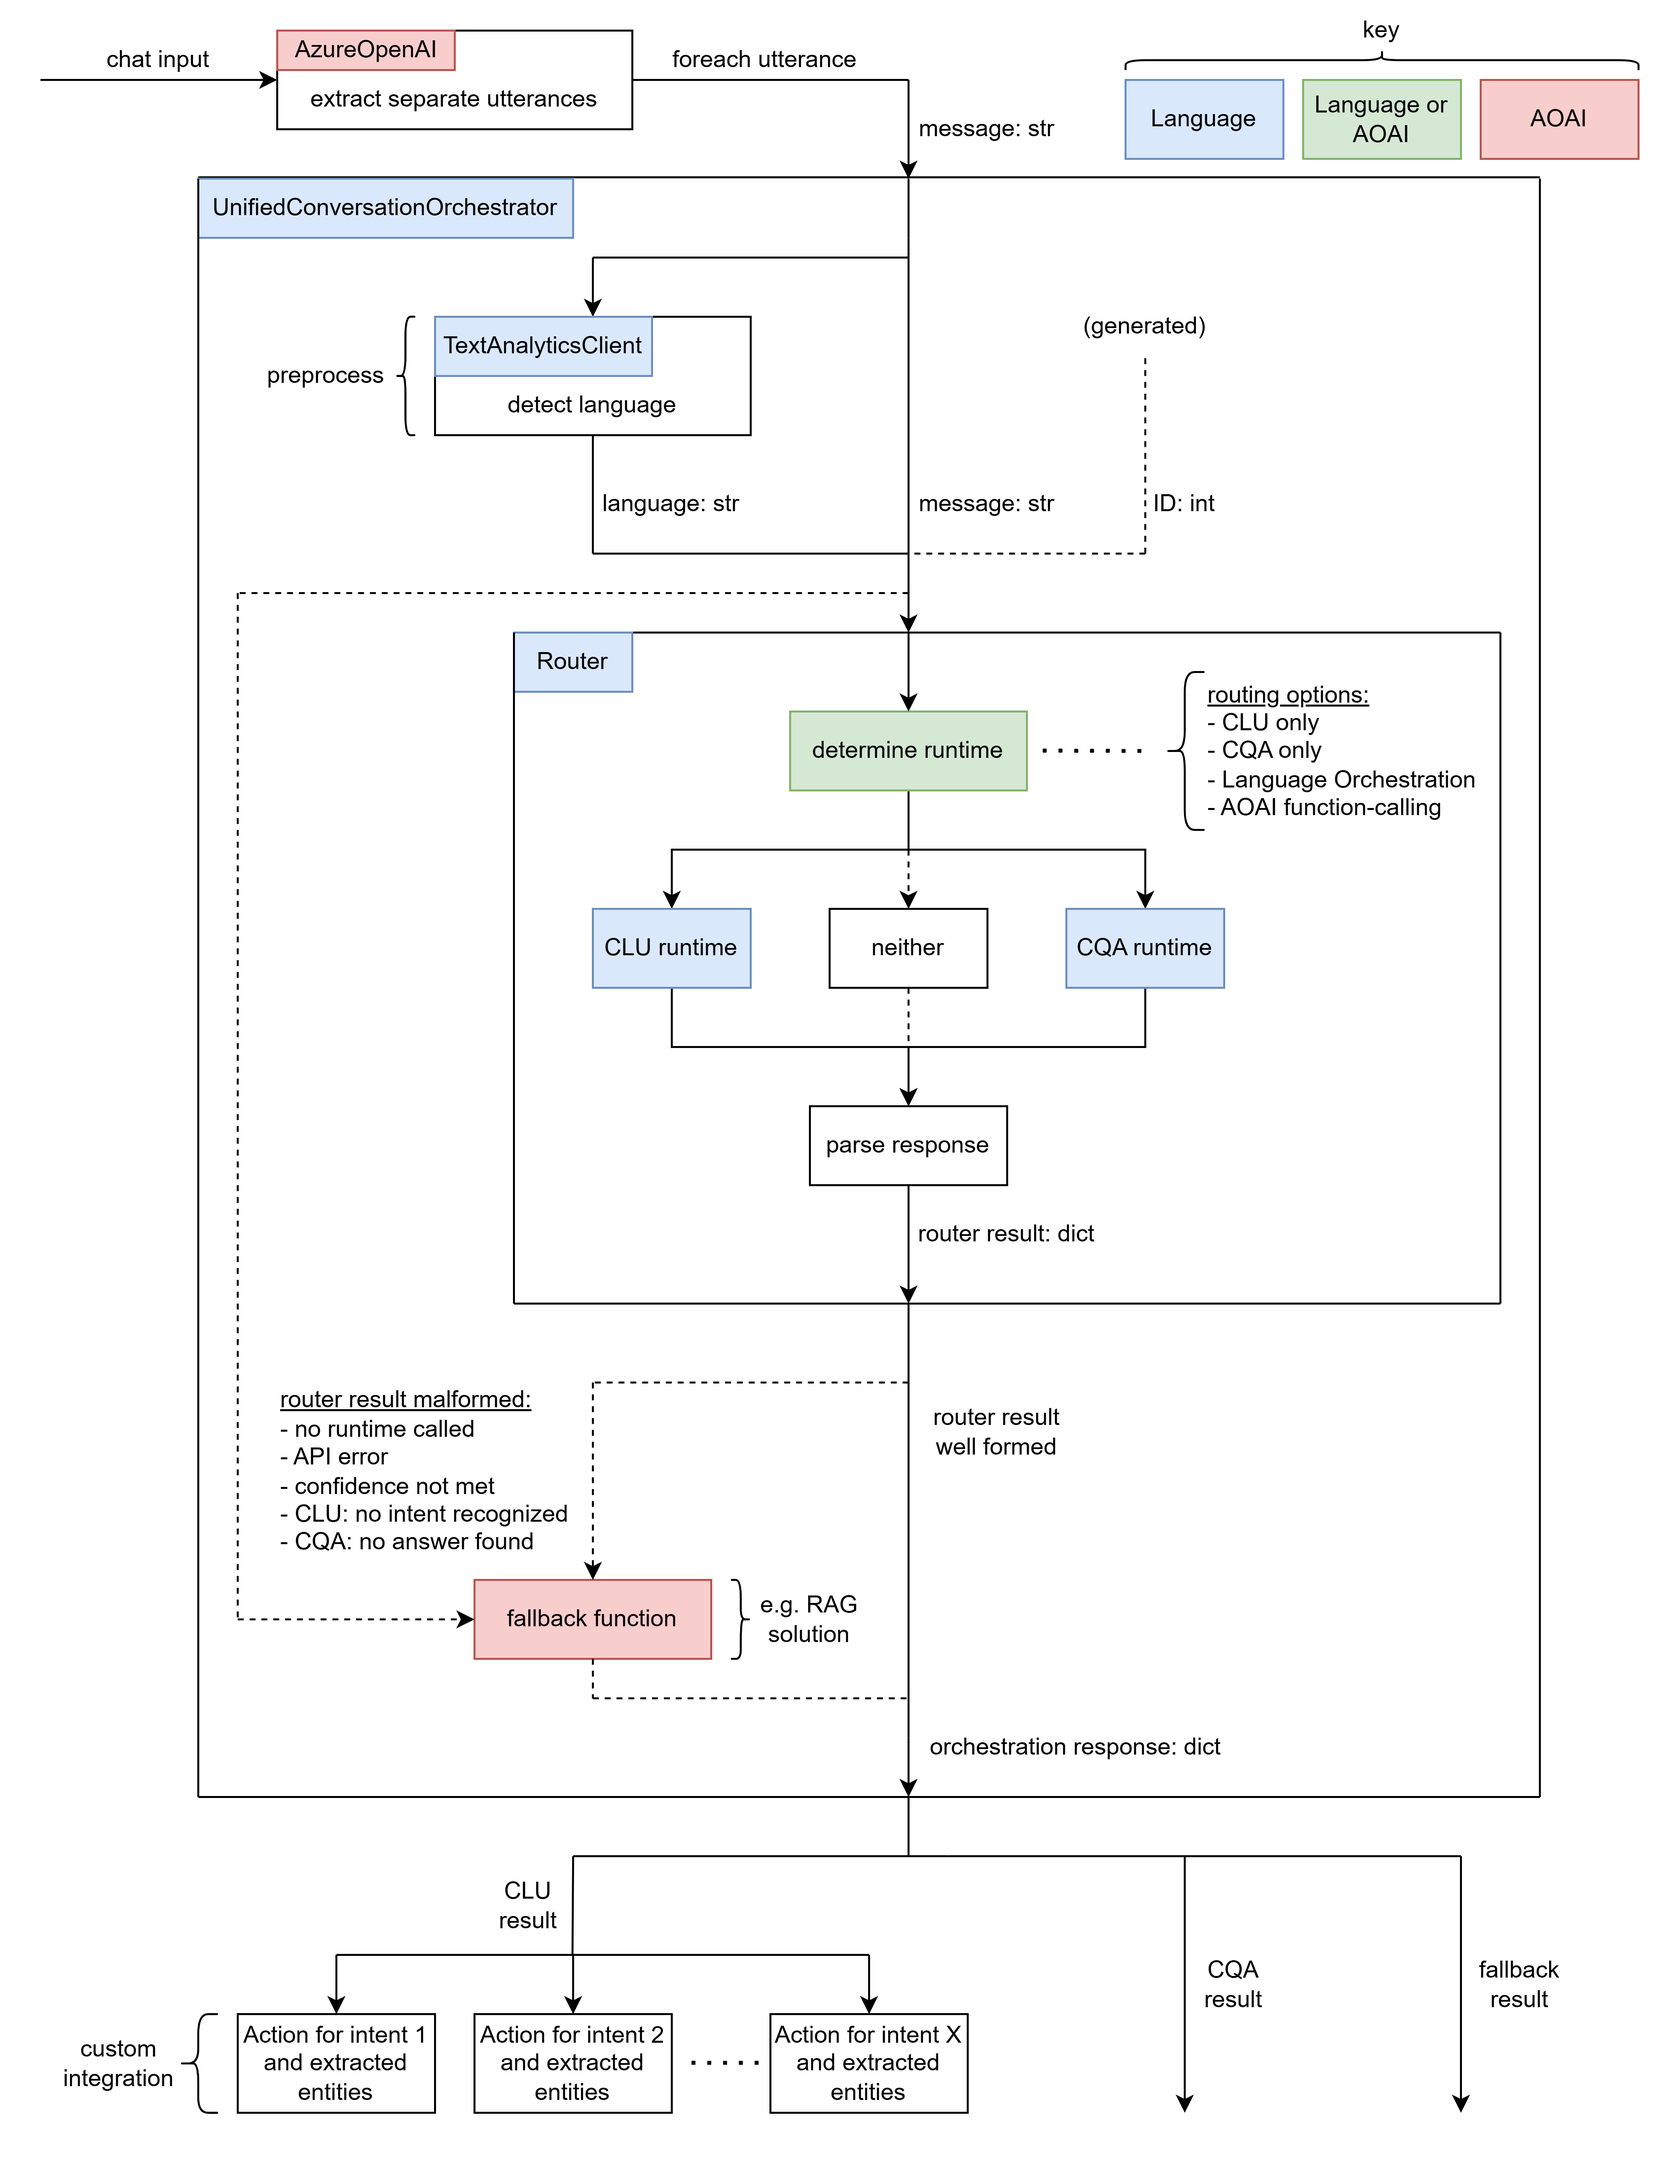
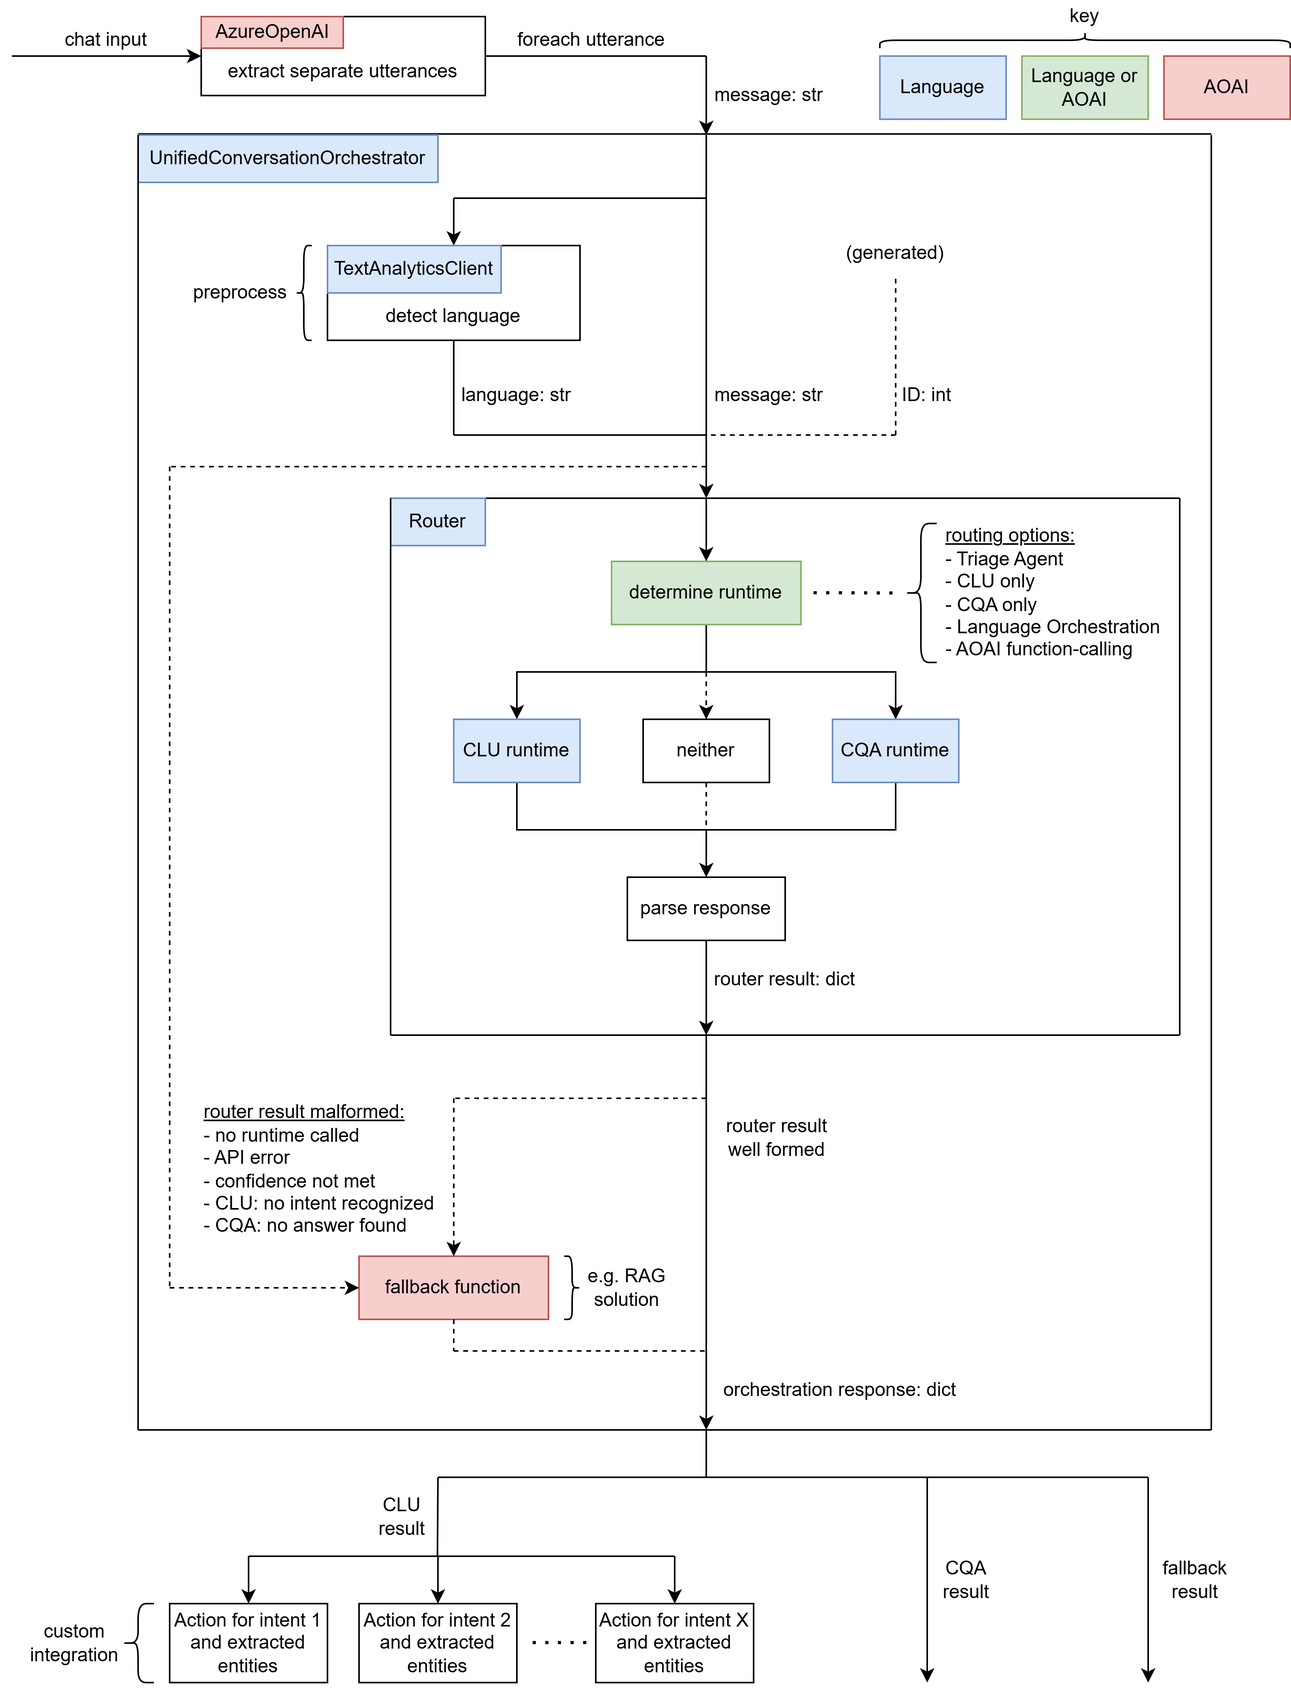
Updating agent fallback routing logic and updating readme (#40)
This PR updates the architecture and overview diagrams in the README and also fixes how fallback logic is handled by the triage agent in the event of an error.

diff --git a/src/backend/src/router/triage_agent_router.py b/src/backend/src/router/triage_agent_router.py
@@ -1,17 +1,18 @@
 # Copyright (c) Microsoft Corporation.
 # Licensed under the MIT License.
 import os
+import sys
 import json
 import logging
-import pii_redacter
 from typing import Callable
 from azure.ai.agents import AgentsClient
-from azure.ai.agents.models import ListSortOrder
+from azure.ai.agents.models import ListSortOrder, AgentThread
 from router.clu_router import parse_response as parse_clu_response
 from router.cqa_router import parse_response as parse_cqa_response
 from utils import get_azure_credential
 
 _logger = logging.getLogger(__name__)
+_logger.setLevel(logging.INFO)
 
 PII_ENABLED = os.environ.get("PII_ENABLED", "false").lower() == "true"
 
@@ -38,60 +39,94 @@ def create_triage_agent_router() -> Callable[[str, str, str], dict]:
         """
         Triage agent router function.
         """
-
-        # Create thread for communication
-        thread = agents_client.threads.create()
-        _logger.info(f"Created thread, ID: {thread.id}")
-
-        # Create and add user message to thread
-        message = agents_client.messages.create(
-            thread_id=thread.id,
-            role="user",
-            content=utterance,
-        )
-        _logger.info(f"Created message: {message['id']}")
-        
         # Process the agent run and handle retries
         max_retries = int(os.environ.get("MAX_AGENT_RETRY", 3))
-        for attempt in range(1, max_retries + 1):
-            run = agents_client.runs.create_and_process(thread_id=thread.id, agent_id=agent.id)
-            _logger.info(f"Run attempt {attempt} finished with status: {run.status}")
-
-            if run.status == "completed":
-                # Fetch and log all messages if successful run
-                messages = agents_client.messages.list(thread_id=thread.id, order=ListSortOrder.ASCENDING)
-                for msg in messages:
-                    if msg.text_messages:
-                        last_text = msg.text_messages[-1]
-                        _logger.info(f"{msg.role}: {last_text.text.value}")
-
-                        # Load the agent response into a JSON
-                        if msg.role == "assistant" :
-                            try:
-                                # Attempt to parse the agent response as JSON
-                                data = json.loads(last_text.text.value)
-                                parsed_result = parse_response(data)
-                                return parsed_result
-                            except json.JSONDecodeError as e:
-                                _logger.error(f"Error decoding JSON on attempt {attempt}: {e}")
-                                _logger.error(f"Raw JSON string: {last_text.text.value}")
-
-                                # If JSON parsing fails, handle retries or raise an error if max retries reached
-                                if attempt == max_retries:
-                                    raise RuntimeError(f"JSON parsing failed after {max_retries} attempts.")
-                                else:
-                                    # Exit the inner loop to retry agent run
-                                    _logger.info(f"Retrying agent run due to JSON parsing error... Attempt {attempt + 1}/{max_retries}")
-                                    break
         
-            # If run fails, handle retries or raise an error if max retries reached
-            elif attempt == max_retries:
-                _logger.error(f"Run failed after {max_retries} attempts: {run.last_error}")
-                raise RuntimeError()
-            else:
-                _logger.warning(f"Run failed on attempt {attempt}: {run.last_error}. Retrying...")
+        # Initialize error return value
+        error_return_value = {
+            "error": ValueError("The run did not complete successfully.")
+        }
+            
+        # Create thread and process agent run with retries
+        for attempt in range(1, max_retries + 1):
+            try:
+                # Create thread for communication
+                thread = create_thread(agents_client, utterance)
+
+                # Create and process the agent run
+                run = agents_client.runs.create_and_process(thread_id=thread.id, agent_id=agent.id)
+                _logger.info(f"Run attempt {attempt} finished with status: {run.status}")
+
+                # Check the run status
+                if run.status == "completed":
+                    # If run is successful, handle the response
+                    return handle_successful_run(agents_client, thread, attempt)
+
+            # Handle exceptions during agent run processing
+            except Exception as e:
+                _logger.error(f"Logging error {e}")
+                error_return_value["error"] = e
+                _logger.error(f"Agent run {attempt + 1} failed with exception: {e}. Retrying...")
+        
+        # If all attempts fail, return the error
+        return error_return_value
 
     return triage_agent_router
+
+
+def create_thread(
+    agents_client: AgentsClient,
+    utterance: str
+) -> AgentThread:
+    """
+    Helper function to create a thread for the agent run.
+    """
+    # Create thread for communication
+    thread = agents_client.threads.create()
+    _logger.info(f"Created thread, ID: {thread.id}")
+
+    # Create and add user message to thread
+    message = agents_client.messages.create(
+        thread_id=thread.id,
+        role="user",
+        content=utterance,
+    )
+    _logger.info(f"Created message: {message['id']}")
+    
+    return thread
+
+def handle_successful_run(
+    agents_client: AgentsClient,
+    thread: AgentThread, 
+    attempt: int
+) -> dict:
+    """
+    Helper function to handle a successful agent run
+    """
+    # Parse the agent response from the successful run
+    _logger.info(f"Agent run succeeded on attempt {attempt}.")
+    messages = agents_client.messages.list(thread_id=thread.id, order=ListSortOrder.ASCENDING)
+    for msg in messages:
+        # Grab the last text message from the assistant
+        if msg.text_messages and msg.role == "assistant":
+            last_text = msg.text_messages[-1]
+            _logger.info(f"{msg.role}: {last_text.text.value}")
+
+            # Load the agent response into a JSON
+            try:
+                data = json.loads(last_text.text.value)
+                _logger.info(f"Agent response parsed successfully: {data}")
+                parsed_result = parse_response(data)
+                return parsed_result
+            
+            # Raise error if agent response cannot be parsed
+            except Exception as e:
+                _logger.error(f"Agent response failed with error: {e}")
+                raise ValueError(f"Failed to parse agent response: {e}")
+            
+    # If no valid response found, raise an error to be handled by the caller
+    _logger.error("No valid agent response found in the thread.")
+    raise ValueError("No valid agent response found in the thread.")
 
 def parse_response(
     response: dict

diff --git a/infra/scripts/language/agent_setup.py b/infra/scripts/language/agent_setup.py
@@ -58,7 +58,7 @@ with agents_client:
 
     # Define the instructions for the agent
     instructions = """
-                You are a triage agent. Your goal is to answer questions and redirect message according to their intent. You have at your disposition 2 tools but can only use ONE:
+        You are a triage agent. Your goal is to answer questions and redirect message according to their intent. You have at your disposition 2 tools but can only use ONE:
         1. cqa_api: to answer customer questions such as procedures and FAQs.
         2. clu_api: to extract the intent of the message.
         You must use the ONE of the tools to perform your task. You should only use one tool at a time, and do NOT chain the tools together. Only if the tools are not able to provide the information, you can answer according to your general knowledge. You must return the full API response for either tool and ensure it's a valid JSON.

diff --git a/README.md b/README.md
@@ -17,7 +17,7 @@ This template, the application code and configuration it contains, have been bui
 
 This solution leverages the combined capabilities of Azure AI Language, Azure AI Agent Service and Azure OpenAI for enhanced conversational agent solutions. The following image is a reference architecture diagram of this Agent template.
 
-![image](https://github.com/user-attachments/assets/1d847138-98d2-4ae9-926a-2bb6a92dc614)
+![image](./docs/images/agent_flow.png)
 
 1. **Client-Side User Interface:** A web-based client-side user interface allows you to quickly explore and test this Agent template.
 2. **Orchestrator:** The orchestrator allows for a dynamic, adaptable workflow with multiple orchestration options including utilizing an intent routing agent based on [this template](https://github.com/azure-ai-foundry/foundry-samples/tree/main/samples/agent-catalog/msft-agent-samples/foundry-agent-service-sdk/intent-routing-agent), LLM function calling, CLU for intent identification only and CQA for returning exact pre-set answers only, etc. Both intent routing agent and LLM function calling options leverages CLU and CQA to provide high-quality intent identficiation and exact question-answering. See the routing strategies section down below for more details between these options. 
@@ -124,10 +124,10 @@ For best latency performance, we recommend you choose a region close to your phy
 | **Setting** | **Description** |  **Default value** |
 |------------|----------------|  ------------|
 | **GPT Model Name** | `gpt-4o` or `gpt-4o-mini` | `gpt-4o-mini` |  
-| **GPT Model Deployment Capacity** | Configure capacity for **GPT model deployment** | `5k` |
+| **GPT Model Deployment Capacity** | Configure capacity for **GPT model deployment** | `100k` |
 | **GPT Deployment Type** | `GlobalStandard` or `Standard` |  `GlobalStandard` |
 | **Embedding Model name** | `text-embedding-ada-002` or `text-embedding-3-small` | `text-embedding-ada-002` |
-| **Embedding Model Capacity** | Configure capacity for **embedding model deployment** |  `5k` |
+| **Embedding Model Capacity** | Configure capacity for **embedding model deployment** |  `100k` |
 | **Embedding Deployment Type** | `GlobalStandard` or `Standard` |  `GlobalStandard` |
 
 The models, deployment types, and capacities you choose may depend on the region you select. To help you in choosing what is available in your subscription, please run the helper script:
